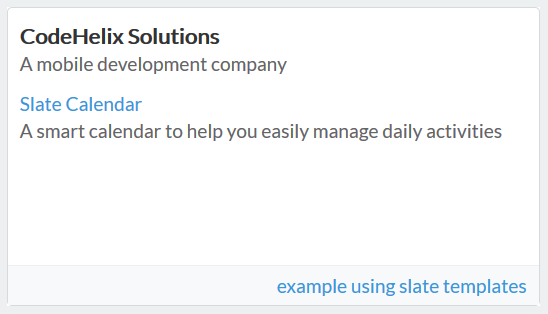
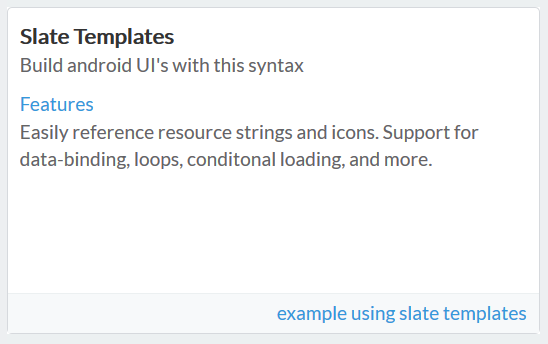
Updated open-source section, license, and example

diff --git a/index.html b/index.html
@@ -79,11 +79,11 @@ template.core
 {
    list down
    {
-      h4 @companyName
-      p  'A mobile development company'
+      h4 'Slate Templates'
+      p  'build android UIs with this syntax'
       
-      text6.accent 'Slate Calendar'	  
-      text6 @appAbout
+      text6.accent 'Features' 
+      text6 @r.strings.feature_list
    }
 }
 </pre>
@@ -460,7 +460,14 @@ group:aboutpage inherits=core
         <section id="main_content">
 		
 			<h1><a name="welcome-to-github-pages" class="anchor" ><span class="octicon octicon-link">Android example</span></a></h1>
-			<p>Lets look at some sample code in android to run a template</p>
+			<p>Lets look at some sample code in java / android to load a tempalte. It basically involves the following:</p>
+			<ol>
+				<li>Initialize the TemplateService</li>
+				<li>Provide your resource classes ( for strings, ids, icons )</li>
+				<li>Supply default theme ( or a custom one ) and optionally supply variables</li>
+				<li>Supply template to process ( file in assets folder, or explicit text )</li>
+			</ol>
+			<p>Note that the steps 1 to 3 only need to be done 1 time</p>
 <div>
 <pre class="sh_javascript" >
 import com.slate.templates.templating.*;
@@ -471,7 +478,7 @@ TemplateService svc = new TemplateService();
 // 1. intialize using the activity.
 // This sets the android context, resources, asset manager
 svc = new TemplateService();
-svc.initialize(this);
+svc.initialize((Activity)this);
 
 // 2. setup the references to the resource 
 // strings and images and styles.
@@ -506,10 +513,14 @@ TemplateView tview = svc.executeTemplateFile("slate_sample1.txt");
 	<li>help </li>
 	<li>upcoming features</li>
 </ol>
+
+<h1><a name="designer-templates" class="anchor" ><span class="octicon octicon-link"></span>Open-Source ( partial )</a></h1>
+<p>Slate templating engine is currently closed source for the time being, but we will very soon open-source parts of the templating engine to support extensibility.
+For example, some of the features currently in the engine, such as mock data and pre-processor definitions, are implemented as plugins. We will open up areas for other developers to extend parts of the system.</p>
 <br/>
 
 <h1><a name="designer-templates" class="anchor" ><span class="octicon octicon-link"></span>License</a></h1>
-<p>Slate templates library is closed source for the time being, with potential plugins / extensions that may become open-source. You can use the library given the following restrictions and considerations:</p>
+<p>Slate templates can be used under the following restrictions and considerations. Please contact us for custom needs and requirements.</p>
 <a href="https://github.com/kishorereddy/slate-templates" target="_blank" class="user-mention">Check full license here</a> <br/><br/>
 
 <div class="featured">Common restrictions</div>
@@ -517,7 +528,7 @@ TemplateView tview = svc.executeTemplateFile("slate_sample1.txt");
 <ol>
 	<li>you can not redistribute the jar file for others to use</li>
 	<li>you can not use the jar file on a server, only on mobile device / tablet</li>
-	<li>you can not make any modifications to the code</li>
+	<li>you can not make any modifications to the code ( see open-source section above )</li>
 	<li><strong>please contact us for any custom changes to the license for your business</strong></li>
 </ol>
 
